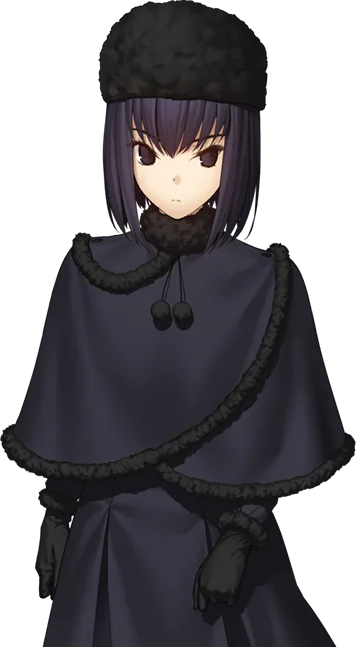
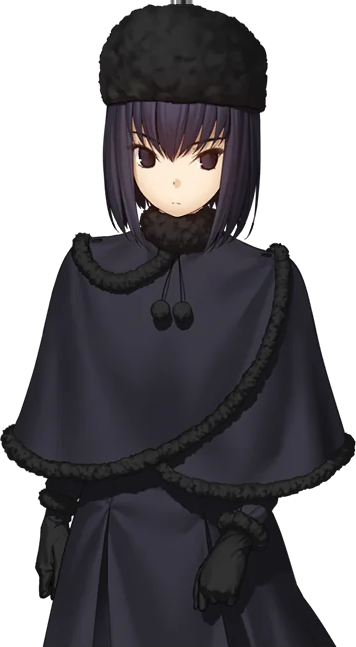
fix: 以头部深度旋转重做抬头低头

diff --git a/tests/pet.test.js b/tests/pet.test.js
@@ -269,11 +269,12 @@ test('鼠标转向试验帧采用局部语义变形并保留透明边缘', () =>
   assert.ok(script.includes('for eye_x in (151.0, 204.0)'), '双眼应拥有比头部更早的视线偏移');
   assert.ok(script.includes('desired_shift = 4.6 * horizontal'), '脸部偏转必须达到肉眼可辨识的幅度');
   assert.ok(script.includes('move_x=1.75 * horizontal'), '眼神应明显领先脸部转向');
-  assert.ok(script.includes('add_face_pitch'), '上下方向应使用独立的脸部俯仰透视');
-  assert.ok(script.includes('face_pitch_shift = 5.4 * vertical'), '上下方向必须达到实际桌宠尺寸下肉眼可辨识的幅度');
-  assert.ok(script.includes('move_y=1.5 * vertical'), '上下眼神应额外领先脸部俯仰');
+  assert.ok(script.includes('head_depth_map'), '上下方向应建立帽子、脸面和鼻口的头部深度');
+  assert.ok(script.includes('render_head_pitch'), '上下方向应绕水平轴旋转完整头层');
+  assert.ok(script.includes('pivot_y = 224.0'), '抬头低头必须以衣领附近作为固定旋转轴');
+  assert.ok(script.includes('MAX_PITCH_DEGREES = 9.0'), '头部俯仰应达到肉眼可辨识的角度');
+  assert.ok(!script.includes('face_pitch_shift'), '上下俯仰不应再通过移动五官模拟');
   assert.ok(!script.includes('vertical_scale'), '上下俯仰不应压扁或拉长脸部和身体');
-  assert.ok(!script.includes('add_body_pitch'), '上下俯仰不应拉伸披风冒充身体动作');
   assert.ok(script.includes('add_body_yaw'), '身体应使用绕竖轴的局部透视，而不是整体倾斜');
   assert.ok(script.includes('right_move = 0.9 * horizontal - 0.55 * abs(horizontal)'), '远侧肩线应有可辨识的透视内收');
   assert.ok(!script.includes('left_shoulder, move_y=') && !script.includes('right_shoulder, move_y='), '身体转向不应制造高低肩');

diff --git a/scripts/make-pet-look-pilot.py b/scripts/make-pet-look-pilot.py
@@ -16,6 +16,9 @@ from scipy.ndimage import map_coordinates
 ROOT = Path(__file__).resolve().parents[1]
 SOURCE = ROOT / "src" / "renderer" / "images" / "pet" / "parts" / "full.png"
 OUTPUT = ROOT / "docs" / "pet-direction-pilot"
+HEAD_BOX = (88, 0, 268, 235)
+HEAD_BOTTOM_OVERLAP = 12
+MAX_PITCH_DEGREES = 9.0
 DIRECTIONS = {
     "up-left": (-0.82, -0.82),
     "up": (0.0, -1.0),
@@ -52,16 +55,6 @@ def add_face_yaw(dx, xx, yy, horizontal):
     horizontal_scale = 1.0 - 0.045 * abs(horizontal)
     inverse_offset = (xx - cx - desired_shift) / horizontal_scale - (xx - cx)
     dx += inverse_offset * region
-
-
-def add_face_pitch(dy, xx, yy, vertical):
-    """在脸内平移五官形成俯仰，不改变脸长或脸宽。"""
-    if vertical == 0:
-        return
-    cx, cy = 178.0, 169.0
-    region = soft_ellipse(xx, yy, cx, cy, 55.0, 77.0, 1.15)
-    face_pitch_shift = 5.4 * vertical
-    dy -= face_pitch_shift * region
 
 
 def add_body_yaw(dx, xx, yy, horizontal):
@@ -105,32 +98,33 @@ def warp_rgba_premultiplied(image, dx, dy):
     return Image.fromarray(quantized, "RGBA")
 
 
-def make_look(source, horizontal, vertical):
+def make_horizontal_look(source, horizontal):
+    if horizontal == 0:
+        return source.copy()
     width, height = source.size
     yy, xx = np.mgrid[0:height, 0:width].astype(np.float32)
     dx = np.zeros((height, width), dtype=np.float32)
     dy = np.zeros((height, width), dtype=np.float32)
 
-    # 脸型先产生偏转和俯仰透视；帽子轮廓与外侧长发不参与。
+    # 脸型先产生左右偏转透视；帽子轮廓与外侧长发不参与。
     add_face_yaw(dx, xx, yy, horizontal)
-    add_face_pitch(dy, xx, yy, vertical)
 
     # 眼神比脸先多走一点，鼻尖和嘴只跟随半步，避免五官像贴纸般一起滑动。
     for eye_x in (151.0, 204.0):
         eye = soft_ellipse(xx, yy, eye_x, 153.0, 14.0, 10.0, 1.4)
-        add_shift(dx, dy, xx, yy, eye, move_x=1.75 * horizontal, move_y=1.5 * vertical)
+        add_shift(dx, dy, xx, yy, eye, move_x=1.75 * horizontal)
     nose_mouth = soft_ellipse(xx, yy, 178.0, 184.0, 24.0, 28.0, 1.3)
-    add_shift(dx, dy, xx, yy, nose_mouth, move_x=0.85 * horizontal, move_y=0.75 * vertical)
+    add_shift(dx, dy, xx, yy, nose_mouth, move_x=0.85 * horizontal)
 
     # 刘海内层产生小于一像素的视差，外轮廓保持稳定。
     inner_hair = soft_ellipse(xx, yy, 178.0, 125.0, 50.0, 36.0, 1.7)
-    add_shift(dx, dy, xx, yy, inner_hair, move_x=1.0 * horizontal, move_y=0.45 * vertical)
+    add_shift(dx, dy, xx, yy, inner_hair, move_x=1.0 * horizontal)
 
     # 颈部、衣领与披风上半部跟随左转；位移在腰部前完全衰减。
     neck = soft_ellipse(xx, yy, 178.0, 238.0, 48.0, 42.0, 1.2)
-    add_shift(dx, dy, xx, yy, neck, move_x=2.1 * horizontal, move_y=0.8 * vertical)
+    add_shift(dx, dy, xx, yy, neck, move_x=2.1 * horizontal)
     collar_and_pendants = soft_ellipse(xx, yy, 178.0, 272.0, 92.0, 70.0, 1.3)
-    add_shift(dx, dy, xx, yy, collar_and_pendants, move_x=1.35 * horizontal, move_y=0.35 * vertical)
+    add_shift(dx, dy, xx, yy, collar_and_pendants, move_x=1.35 * horizontal)
     add_body_yaw(dx, xx, yy, horizontal)
 
     # 远侧肩膀向内收，近侧肩膀只跟随半步；不再制造高低肩。
@@ -142,6 +136,84 @@ def make_look(source, horizontal, vertical):
     add_shift(dx, dy, xx, yy, right_shoulder, move_x=right_move)
 
     return warp_rgba_premultiplied(source, dx, dy)
+
+
+def head_depth_map(width, height):
+    """构造头部正面深度：鼻面最前，外发和帽子更靠后，颈根为旋转轴。"""
+    yy, xx = np.mgrid[0:height, 0:width].astype(np.float32)
+    outer_head = soft_ellipse(xx, yy, 90.0, 116.0, 92.0, 132.0, 0.8)
+    face = soft_ellipse(xx, yy, 90.0, 166.0, 55.0, 75.0, 1.0)
+    nose_plane = soft_ellipse(xx, yy, 90.0, 175.0, 28.0, 40.0, 1.25)
+    depth = 13.0 * outer_head + 34.0 * face + 11.0 * nose_plane
+    # 颈部最后 24px 平滑回到零，保证与衣领的固定轴不分离。
+    neck_falloff = np.clip((224.0 - yy) / 24.0, 0.0, 1.0)
+    depth *= neck_falloff
+    return depth
+
+
+def render_head_pitch(head, angle_degrees):
+    """依据头部深度绕衣领处水平轴旋转，而非液化五官。"""
+    rgba = np.asarray(head.convert("RGBA"), dtype=np.float32) / 255.0
+    alpha = rgba[:, :, 3:4]
+    premultiplied = np.concatenate((rgba[:, :, :3] * alpha, alpha), axis=2)
+    height, width = rgba.shape[:2]
+    yy, xx = np.mgrid[0:height, 0:width].astype(np.float32)
+    depth = head_depth_map(width, height)
+    pivot_y = 224.0
+    angle = np.deg2rad(angle_degrees)
+    sin_angle = np.sin(angle)
+    cos_angle = np.cos(angle)
+
+    # 反解旋转后的纵坐标；迭代深度使脸、外发和帽子遵守同一空间旋转。
+    source_y = yy.copy()
+    for _ in range(5):
+        sampled_depth = map_coordinates(depth, np.array([source_y, xx]), order=1, mode="nearest")
+        source_y = pivot_y + (yy - pivot_y + sin_angle * sampled_depth) / cos_angle
+    source_y = np.clip(source_y, 0, height - 1)
+    coords = np.array([source_y, xx])
+
+    warped = np.empty_like(premultiplied)
+    for channel in range(4):
+        warped[:, :, channel] = map_coordinates(
+            premultiplied[:, :, channel], coords, order=3, mode="constant", cval=0.0, prefilter=True
+        )
+    warped = np.clip(warped, 0.0, 1.0)
+    out_alpha = warped[:, :, 3:4]
+    out_rgb = np.divide(
+        warped[:, :, :3], out_alpha, out=np.zeros_like(warped[:, :, :3]), where=out_alpha > 1e-5
+    )
+    out = np.concatenate((np.clip(out_rgb, 0.0, 1.0), out_alpha), axis=2)
+    quantized = np.rint(out * 255.0).astype(np.uint8)
+    quantized[quantized[:, :, 3] == 0, :3] = 0
+    return Image.fromarray(quantized, "RGBA")
+
+
+def add_pitched_head(frame, vertical):
+    """挖掉原头部并放回绕颈根旋转后的完整头层。"""
+    if vertical == 0:
+        return frame
+    x0, y0, x1, y1 = HEAD_BOX
+    head = frame.crop(HEAD_BOX).convert("RGBA")
+    head_pixels = np.asarray(head).copy()
+    for y in range(head.height - HEAD_BOTTOM_OVERLAP, head.height):
+        fade = (head.height - y) / HEAD_BOTTOM_OVERLAP
+        head_pixels[y, :, 3] = np.rint(head_pixels[y, :, 3].astype(np.float32) * fade).astype(np.uint8)
+    head = Image.fromarray(head_pixels, "RGBA")
+
+    body_pixels = np.asarray(frame).copy()
+    body_pixels[y0 : y1 - HEAD_BOTTOM_OVERLAP, x0:x1, 3] = 0
+    body = Image.fromarray(body_pixels, "RGBA")
+    # vertical=-1 表示向上看，对应绕水平轴的正角度。
+    pitched = render_head_pitch(head, -vertical * MAX_PITCH_DEGREES)
+    body.alpha_composite(pitched, (x0, y0))
+    result = np.asarray(body).copy()
+    result[result[:, :, 3] == 0, :3] = 0
+    return Image.fromarray(result, "RGBA")
+
+
+def make_look(source, horizontal, vertical):
+    horizontal_frame = make_horizontal_look(source, horizontal)
+    return add_pitched_head(horizontal_frame, vertical)
 
 
 def checkerboard(size, cell=12):
